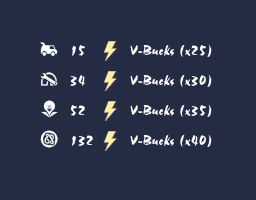
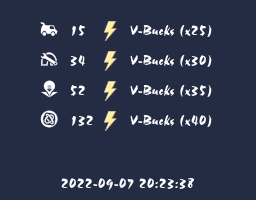
添加更新时间, 逻辑优化

diff --git a/nonetbot_plugin_stw/data_source.py b/nonetbot_plugin_stw/data_source.py
@@ -1,80 +1,42 @@
 import httpx
+import time
 
 from bs4 import BeautifulSoup
-from PIL import Image
+from PIL import Image, ImageFont
 from io import BytesIO
 
-from configs.path_config import IMAGE_PATH
+from configs.path_config import IMAGE_PATH, FONT_PATH
 from utils.message_builder import image
 from services.log import logger
 from utils.image_utils import BuildImage
 from configs.path_config import IMAGE_PATH
 
-# async def get_vbmap() -> Optional[MessageSegment]:
-#     url = "https://freethevbucks.com/timed-missions/"
-#     # url = "https://baidu.com"
-#     try:
-#         browser = await get_browser()
-#         context = await browser.new_context()
-#         page = await context.new_page()
-#         await page.goto(
-#             url=url,
-#             timeout=30000,
-#         )
-#         # await page.set_viewport_size(
-#         #     {"width": 1200, "height": 800, "timeout": 10000 * 20}
-#         # )
-#         # await page.wait_for_selector(".infonotice")
-#         # card = page.locator(".main-title")
-#         # await card.wait_for()
-#         await page.screenshot(
-#             path=IMAGE_PATH / "fn_stw.jpg",
-#         )
-#     except Exception as e:
-#         logger.error(e)
-#     finally:
-#         await context.close()
-#         await page.close()
-#     return image("fn_stw.jpg")
-
-async def get_vbmap_byhttpx():
+async def update_daily_vb():
     url = "https://freethevbucks.com/timed-missions/"
     html_content = httpx.get(url).content
     soup = BeautifulSoup(html_content, "lxml")
-    # img = Image.new('RGB', (256, 256), (36, 44, 68))
-    # 合集图
+    # vb图
     img = BuildImage(w=256, h=200, font_size=15, color=(36, 44, 68), font="gorga.otf")
-    Y = 40
+    Y = 30
     # 电力图标
-    ele_img = httpx.get("https://img.icons8.com/office/30/000000/lightning-bolt.png").content
-    ele_img = Image.open(BytesIO(ele_img))
+    ele_img = Image.open(BytesIO(httpx.get("https://img.icons8.com/office/30/000000/lightning-bolt.png").content))
     ele_img = ele_img.resize((20, 20), Image.LANCZOS)
+    # 当前时间
+    timestr = time.strftime("%Y-%m-%d %H:%M:%S",time.localtime())
+    await img.atext(pos=(0, 170),text=timestr, center_type="by_width", fill=(255, 255, 255))
     for item in soup.find_all("p"):
         if item.span is not None:
             if item.span.b is not None:
-                storm_src = item.img.get("src") # 风暴图类型
+                storm_src = item.img.get("src") # 风暴图标链接
                 storm_img = httpx.get(storm_src).content
                 storm_img = Image.open(BytesIO(storm_img))
-                await img.apaste( # 异步改为apaste
-                    img=storm_img,
-                    pos=(40, Y),
-                    alpha=True
-                )
-                await img.atext( # 异步改为atext
-                    pos=(70, Y-3),
-                    text= item.b.string, # 电力
-                    fill=(255, 255, 255)
-                )
-                await img.apaste( # 异步改为apaste
-                    img=ele_img,
-                    pos=(100, Y+1),
-                    alpha=True
-                )
-                await img.atext( # 异步改为atext
-                    pos=(130, Y-3),
-                    text= item.span.text, # vb
-                    fill=(255, 255, 255)
-                )
+                await img.apaste(img=storm_img, pos=(40, Y), alpha=True) # 风暴图标
+                await img.atext(text=item.b.string, pos=(70, Y-3), fill=(255, 255, 255)) # 电力
+                await img.apaste(img=ele_img, pos=(100, Y+1), alpha=True) # 电力图标
+                await img.atext(pos=(130, Y-3), text= item.span.text, fill=(255, 255, 255))
                 Y += 30
+    if Y == 30:
+        img.font = ImageFont.truetype(str(FONT_PATH / "msyh.ttf"), 30)
+        await img.atext(text="今天没有vb图捏", pos=(0, 0), center_type="center", fill=(255, 255, 255))
     img.save(IMAGE_PATH / "fn_stw.png")
     

diff --git a/nonetbot_plugin_stw/__init__.py b/nonetbot_plugin_stw/__init__.py
@@ -8,7 +8,7 @@ from configs.path_config import IMAGE_PATH
 from utils.message_builder import image
 from utils.manager import group_manager
 
-from .data_source import get_vbmap_byhttpx
+from .data_source import update_daily_vb
 
 __zx_plugin_name__ = "STW(PVE)"
 __plugin_usage__ = """
@@ -26,16 +26,16 @@ __plugin_settings__ = {
     "cmd": ["pve"],
 }
 
-pve = on_command("pve", priority=5, block=True)
+pve = on_command("pve", aliases={"vb图", "VB图", "V币图", "v币图"}, priority=5, block=True)
 @pve.handle()
 async def _():
     await pve.finish(message=image(IMAGE_PATH / "fn_stw.png"))
 
-update_pve = on_command("update pve", priority=5, block=True, permission=SUPERUSER)
+update_pve = on_command("u pve", priority=5, block=True, permission=SUPERUSER)
 @update_pve.handle()
 async def _(bot: Bot, event: GroupMessageEvent):
-    await get_vbmap_byhttpx()
-    await bot.send_group_msg(group_id=event.group_id,message="手动更新STW(PVE) vb图成功")
+    await update_daily_vb()
+    await bot.send_group_msg(group_id=event.group_id,message="手动更新 STW(PVE) vb图成功")
 
 @scheduler.scheduled_job(
     "cron",
@@ -44,12 +44,12 @@ async def _(bot: Bot, event: GroupMessageEvent):
 )
 async def _():
     try:
-        await get_vbmap_byhttpx()
+        await update_daily_vb()
         bot = get_bot()
         gl = await bot.get_group_list()
         gl = [g["group_id"] for g in gl]
         for g in gl:
             if await group_manager.check_group_task_status(g, 'pve'):
                 await bot.send_group_msg(group_id=g, message=image(IMAGE_PATH / "fn_stw.png")) 
-    except:
-        logger.error("PVE错误")
+    except Exception as e:
+        logger.error("PVE vb图更新错误 {e}")

diff --git a/nonetbot_plugin_stw/test.py b/nonetbot_plugin_stw/test.py
@@ -3,9 +3,11 @@ import requests
 from bs4 import BeautifulSoup
 from PIL import Image
 from io import BytesIO
+import time
 
-# from utils.image_utils import BuildImage
+
 from utils import BuildImage
+# from utils.message_builder import text
 
 url = "https://freethevbucks.com/timed-missions/"
 html_content = requests.get(url).content
@@ -13,14 +15,17 @@ soup = BeautifulSoup(html_content, "lxml")
 # img = Image.new('RGB', (256, 256), (36, 44, 68))
 # 合集图
 img = BuildImage(w=256, h=200, font_size=15, color=(36, 44, 68), font="gorga.otf")
-Y = 40
+Y = 20
 # 电力图标
 ele_img = Image.open(BytesIO(requests.get("https://img.icons8.com/office/30/000000/lightning-bolt.png").content))
 ele_img = ele_img.resize((20, 20), Image.LANCZOS)
+timestr = time.strftime("%Y-%m-%d %H:%M:%S",time.localtime())
+img.text(pos=(0, 170),text=timestr, center_type="by_width", fill=(255, 255, 255))
 for item in soup.find_all("p"):
     if item.span is not None:
         if item.span.b is not None:
             storm_src = item.img.get("src") # 风暴图类型
+            
             img.paste( # 异步改为apaste
                 img=Image.open(BytesIO(requests.get(storm_src).content)),
                 pos=(40, Y),
@@ -42,4 +47,7 @@ for item in soup.find_all("p"):
                 fill=(255, 255, 255)
             )
             Y += 30
+if Y == 20:
+    img.font.size=30
+    img.text(text="今天没有vb图捏",pos=(0, 100) ,center_type="center")
 img.save("test.png")

diff --git a/nonebot_plugin_fn_dailyshop/__init__.py b/nonebot_plugin_fn_dailyshop/__init__.py
@@ -11,7 +11,6 @@ usage：
     指令：
         商城
 """.strip()
-__plugin_type__ = ("其他")
 __plugin_author__ = "YiJiu Chow"
 __plugin_task__ = {"fn":"堡垒之夜商城推送"}
 __plugin_settings__ = {
@@ -35,8 +34,8 @@ async def shopupshop():
             if await group_manager.check_group_task_status(g, 'fn'):
                 result = image("https://cdn.dingpanbao.cn/blzy/shop.png")
                 await bot.send_group_msg(group_id=g, message=result) 
-    except:
-        logger.error("商城错误")
+    except Exception as e:
+        logger.error("堡垒之夜商城错误 {e}")
 
 shopshop = on_command("商城", priority=5, block=True)    
 @shopshop.handle()

diff --git a/nonebot_plugin_abstract/__init__.py b/nonebot_plugin_abstract/__init__.py
@@ -24,7 +24,6 @@ __plugin_settings__ = {
     "cmd": ["abs"],
 }
 
-
 abstract = on_command("abs", aliases={"抽象", "抽象化"}, priority=5, block=True)
 
 @abstract.handle()
